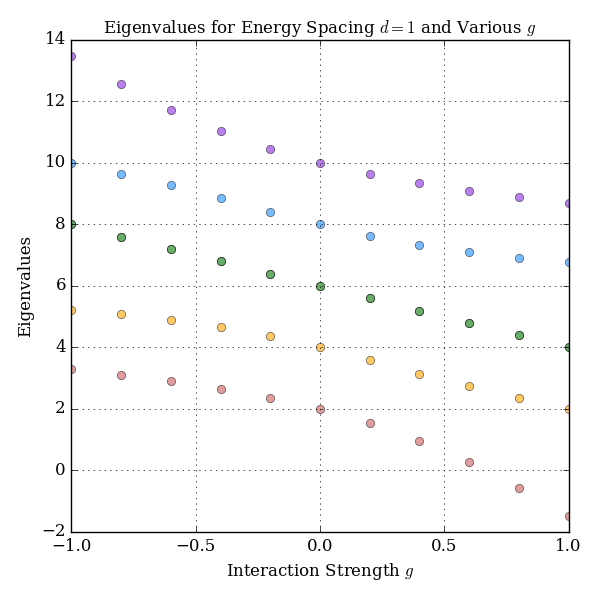
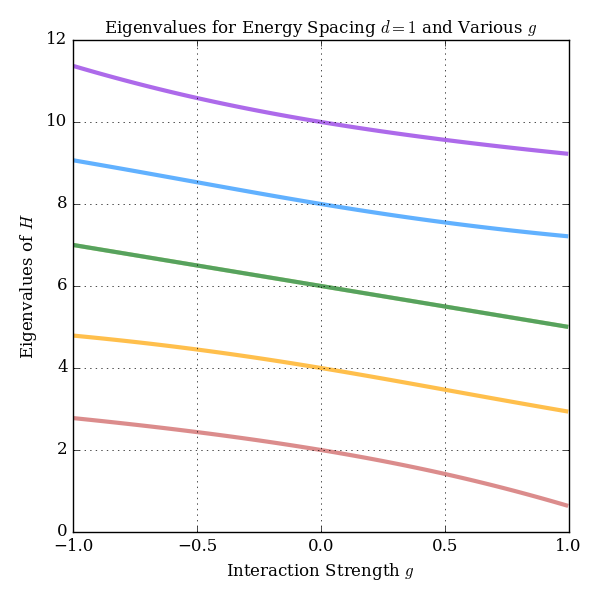
started adding RK4

diff --git a/src/srg.cpp b/src/srg.cpp
@@ -1,56 +1,113 @@
-// These are definitions of functions used to diagonalize an NxN 
-// matrix H using the similarity renormalization group
+#include "diag.h"
 
-#include "srg.h"
+SRG::SRG(mat &H, int N, double smax, double ds){
 
-mat commutator(mat& A, mat& B){
-	return A*B-B*A;
+	H0_ = H;
+	N_ = N;
+	smax_ = smax;
+	ds_ = ds;
+	dsI_ = zeros<mat>(N_,N_);
+	for(int i = 0; i < N_; ++i) dsI(i,i) = ds;
+	for(int n = 0; n < max_; ++n) prefactor_[n] = B_[n]/factorial(n);
 }
 
-void split(mat& H, mat& Hd, mat& Hod, int N){
+void SRG::display_H(){
 
-	for(int i = 0; i < N; ++i){
-		for(int j = 0; j < N; ++j){
-			if(i == j) Hd(i,j) = H(i,j);
-			else Hod(i,j) = H(i,j);
-		}
-	}
-}
-
-void srg(mat& H, int N, double smax, double ds){
-
-	for(double s = 0.0; s <= smax; s += ds){
-
-		// split H into diag and off-diag parts
-		mat Hd = zeros<mat>(N,N);
-		mat Hod = zeros<mat>(N,N);
-		split(H, Hd, Hod, N);
-
-		// calculate generator eta and derivative dH
-		mat eta = commutator(Hd, Hod);
-		mat dH = commutator(eta, H);
-
-		// construct ds*I where I is the identity matrix
-		mat dsI = zeros<mat>(N,N);
-		for(int i = 0; i < N; ++i) dsI(i,i) = ds;
-
-		// forward euler
-		H = H + dsI*dH;
-	}
-
-	// print
-	//display_matrix(H, N);
-
-}
-
-void display_matrix(mat& H, int N){
-
-	for(int i = 0; i < N; i++){
+	cout << "\ns = " << s_ << ":\n" << endl;
+	
+	for(int i = 0; i < N_; i++){
 		cout << "[";
-		for(int j = 0; j < N; j++){
-			cout << setw(10) << setprecision(3) << H(i,j);
+		for(int j = 0; j < N_; j++){
+			cout << setw(10) << setprecision(3) << H_(i,j);
 		}
 		cout << "]" << endl;
 	}
-	cout << endl;
+	cout << endl;	
+}
+
+mat SRG::commutator(mat& A, mat& B){
+	
+	return A*B-B*A;
+}
+
+void SRG::split(){
+
+	Hd_ = diagmat(H_);
+	Hod_ = H_-Hd_;
+}
+
+mat derivative_direct(){
+
+
+}
+
+// returns H_{n+1}
+mat SRG::RK4(){
+
+	
+	mat k1 =  
+}
+
+void SRG::direct_integration(){
+
+	H_ = H0_;
+	double sprint = smax_
+
+	for(s_ = 0.0; s_ <= smax_; s_ += ds_){
+
+		// split H into diag and off-diag parts
+		split();
+
+		// calculate generator eta and derivative dH/ds
+		eta_ = commutator(Hd_,Hod_);
+		derivative_ = commutator(eta_,H_);
+
+		// forward euler
+		H_ = H_+ds_*derivative_;
+
+
+		// RK4
+		H_ = RK4();
+	}
+
+	display_H();
+}
+
+int SRG::factorial(int n){
+
+	int factorial = 1;
+
+	if(n > 1){
+		for(int i = 2; i <= n; ++i) factorial *= i;
+	}
+	else return factorial;
+}
+
+mat SRG::nested_commutator(int n){
+
+	if(n == 0) return eta_;
+	else{
+		mat ad = eta_;
+		for(int i = 0; i < n; ++i) ad = commutator(omega_,ad);
+		return ad;
+	}
+}
+
+mat SRG::derivative_magnus(){
+
+	int n = 0;
+	double tolerance = 1.0E-5;
+	mat sum, summand; 
+
+	do{
+ 		summand = prefactor_[n]*nested_commutator(n);
+ 		sum += summand;
+	}while(summand > tolerance);
+
+	derivative_ = sum;
+}
+
+void SRG::magnus(){
+	
+
 }

diff --git a/figures/eigs.py b/figures/eigs.py
@@ -8,8 +8,9 @@ matplotlib.rcParams['font.family'] = "serif"
 from matplotlib import ticker
 from matplotlib.ticker import ScalarFormatter
 
+file = np.loadtxt("data/pairingmodel_srg.dat", unpack=True)
+
 g = np.linspace(-1.0, 1.0, num=11)
-files = ['data/eigs'+str(i)+'.dat' for i in range(0,11)]
 colors = ['indianred','orange', 'yellowgreen', 'seagreen', 'dodgerblue', 'blueviolet']
 
 plt.figure(figsize=(6,6))
@@ -18,13 +19,13 @@ axes = plt.gca()
 axes.set_xlim([-1,1])
 axes.tick_params(labelsize=12)
 
-for i in range(0,11):
-	file = np.loadtxt(files[i], unpack=True)
-	for j in range(0,6):
-		plt.plot(g[i], file[0][j], linewidth=5, marker='o', color=colors[j], alpha=0.6)
+
+for i in range(0,6):
+	plt.plot(file[0],file[i+2],linewidth=3,color=colors[i],alpha=0.7)
+
 
 plt.xlabel(r'Interaction Strength $g$', fontsize=12, weight='normal', family='serif')
-plt.ylabel(r'Eigenvalues', fontsize=12, weight='normal', family='serif')
+plt.ylabel(r'Eigenvalues of $H$', fontsize=12, weight='normal', family='serif')
 plt.title(r'Eigenvalues for Energy Spacing $d=1$ and Various $g$', fontsize=12, weight='normal', family='serif')
 plt.grid()
 plt.tight_layout()

diff --git a/src/srg.h b/src/srg.h
@@ -7,6 +7,7 @@
 #include <fstream>
 #include <iomanip>
 #include <armadillo>
+#include <vector>
 #include "time.h"
 
 using namespace std;
@@ -14,10 +15,38 @@ using namespace arma;
 
 const double pi = 4.0*atan(1.0);
 
-mat commutator(mat& A, mat& B);
-void split(mat& H, mat& Hd, mat& Hod, int N);
-void srg(mat &H, int N, double smax, double ds);
-void display_matrix(mat& A, int N);
+class SRG{
+
+public:
+
+	static const int max_ = 22;
+	static const vector<double> B_{1.0, -1/2.0, 1/6.0, 0.0, -1/30.0, 
+		                  0.0, 1/42.0, 0.0, -1/30.0, 0.0, 5/66.0, 
+		                  0.0, -691/2730.0, 0.0, 7/6.0, 0.0, -3617/510.0, 
+		                  0.0, 43867/798.0, 0.0, -174611/330, 0.0}
+    
+    vector<double> prefactor_;
+    int N_;
+    double s_, smax_, ds_;
+
+    mat H0_, H_, Hd_, Hod_;
+    mat eta_, omega_, derivative_;
+
+
+	SRG(mat &H, int N, double smax, double ds);
+	~SRG(){}
+
+	void display_H();
+	mat commutator(mat& A, mat& B);
+
+	void split();
+	void direct();
+	int factorial(int n);
+	mat nested_commutator(int n);
+	void derivative();
+	void magnus();
+
+};
 
 
 #endif

diff --git a/src/system.cpp b/src/system.cpp
@@ -10,7 +10,7 @@ CFermionSystem::CFermionSystem(){
 	d_ = 1.0;
 	g_ = 0.5;
 
-	generate_sp_basis();
+	generate_basis();
 }
 
 CFermionSystem::CFermionSystem(int particles, int sp_states, double d, double g){
@@ -22,11 +22,11 @@ CFermionSystem::CFermionSystem(int particles, int sp_states, double d, double g)
 	d_ = d;
 	g_ = g;
 
-	generate_sp_basis();
+	generate_basis();
 
 }
 
-void CFermionSystem::generate_sp_basis(){
+void CFermionSystem::generate_basis(){
 
 	states_.resize(N_);
 

diff --git a/src/system.h b/src/system.h
@@ -16,7 +16,7 @@ class CFermionSystem{
 public:
 
 	int N_, F_;
-	int particles_, sp_states_;
+	int particles_, sp_states_; // degenerate sp states
 	double d_, g_;
 	
 
@@ -27,8 +27,7 @@ public:
 	CFermionSystem(int particles, int sp_states, double d, double g);
 	~CFermionSystem(){}
 
-	void generate_sp_basis();
-	void generate_H();
+	void generate_basis();
 
 	double h0(int q, int r);
 	double v(int q, int r, int s, int t);
